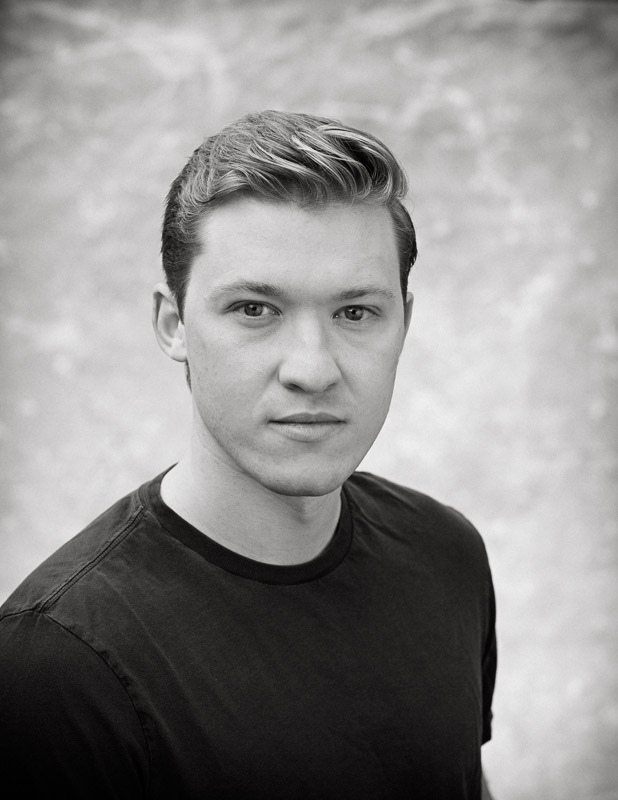
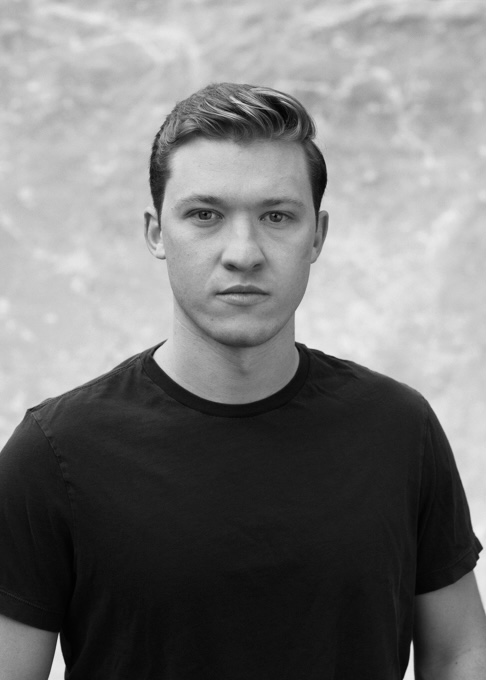
WIP: start redesign

diff --git a/components/Header.tsx b/components/Header.tsx
@@ -1,14 +1,16 @@
-import { useState, useEffect } from "react";
-import { useTheme } from "next-themes";
-import { BsMoonFill, BsSunFill } from "react-icons/bs";
+// import { useState, useEffect } from "react";
+// import { useTheme } from "next-themes";
+// import { BsMoonFill, BsSunFill } from "react-icons/bs";
+
+import Image from "next/image";
 
 function Header() {
-  const [mounted, setMounted] = useState<boolean>(false);
-  const { systemTheme, theme, setTheme } = useTheme();
+  // const [mounted, setMounted] = useState<boolean>(false);
+  // const { systemTheme, theme, setTheme } = useTheme();
 
-  useEffect(() => {
-    setMounted(true);
-  }, []);
+  // useEffect(() => {
+  //   setMounted(true);
+  // }, []);
 
   // const renderThemeChanger = () => {
   //   if (!mounted) return null;
@@ -31,35 +33,27 @@ function Header() {
   //   }
   // };
 
-  const openResume = () => {
-    window.open("/CharlieCarrResumeJan2023.pdf");
-  };
+  // const openResume = () => {
+  //   window.open("/CharlieCarrResumeJan2023.pdf");
+  // };
 
   return (
-    <header className="flex h-header-actual w-full justify-between items-center px-4 sm:px-12 border-b-gray-200 border-t-0 border-x-0 border-4 bg-neutral-800">
-      {/* right header */}
-      <div className="flex justify-center items-center">
-        <p className="text-xl sm:text-3xl">charlie-carr.com</p>
+    <header className="flex h-1/6 w-full items-center justify-between px-20">
+      <div className="bg-neutral-800 w-16 h-16 flex flex-col justify-center items-center relative">
+        <Image
+          src="/images/headshot.jpg"
+          alt="headshot"
+          fill
+          priority
+          // min-h-[250px]
+          className="rounded-full object-cover overflow-hidden"
+        />
       </div>
 
-      {/* left header */}
-      <div className="flex items-center justify-center">
-        {/* <div className="text-xs">{renderThemeChanger()}</div> */}
-        {/* <button className="border-2 ml-7 border-black dark:border-gray-200 py-1 px-3 text-base sm:text-lg">
-          Resume
-        </button> */}
-
-        <button className="ml-5" onClick={() => openResume()}>
-          <a
-            // href="#_"
-            className="relative inline-flex items-center justify-start px-4 py-2 overflow-hidden font-medium transition-all border-2 border-gray-200 group"
-          >
-            <span className="w-52 h-52 rounded rotate-[-40deg] bg-gray-200 absolute bottom-0 left-0 -translate-x-full ease-out duration-500 transition-all translate-y-full mb-9 ml-9 group-hover:ml-0 group-hover:mb-32 group-hover:translate-x-0"></span>
-            <span className="relative w-full text-left text-gray-200 transition-colors duration-300 ease-in-out group-hover:text-neutral-800">
-              Resume
-            </span>
-          </a>
-        </button>
+      <div className="flex justify-center items-center gap-x-10 text-sm">
+        <p>Projects</p>
+        <p>About</p>
+        <p>Contact</p>
       </div>
     </header>
   );

diff --git a/components/layout.tsx b/components/layout.tsx
@@ -1,18 +1,19 @@
 import Head from "next/head";
 import Link from "next/link";
 import { useState } from "react";
+import Card from "./Card";
 import Header from "./Header";
 import LeftSection from "./LeftSection";
 
 type LayoutProps = {
-  children: React.ReactNode
-}
+  children: React.ReactNode;
+};
 
 const PageLayout = ({ children }: LayoutProps) => {
   const [filterState, setFilterState] = useState<string>("Latest Projects");
 
   return (
-    <div className="h-full lg:h-screen lg:max-h-screen w-screen max-w-screen flex flex-col justify-center items-center bg-neutral-800 text-gray-200 overflow-hidden">
+    <div className="h-full min-h-screen w-screen max-w-screen flex flex-col justify-center items-center bg-neutral-800 text-gray-200">
       <Head>
         <title>Charlie Carr</title>
         <meta name="description" content="Charlie Carr Web Dev Portfolio" />
@@ -20,7 +21,20 @@ const PageLayout = ({ children }: LayoutProps) => {
       </Head>
 
       <Header />
-      <div className="w-full h-full lg:h-header flex flex-col lg:flex-row justify-center items-center lg:justify-start lg:items-start">
+
+      <div className="h-5/6 w-full flex flex-col items-start px-20">
+        <h1 className="mt-20 text-4xl">
+          Full stack software developer, <br /> based in NYC
+        </h1>
+
+        <div className="mt-32 flex gap-4">
+         <Card />
+         <Card />
+         <Card />
+        </div>
+      </div>
+
+      {/* <div className="w-full h-full lg:h-header flex flex-col lg:flex-row justify-center items-center lg:justify-start lg:items-start">
         <LeftSection />
         <main className="w-full lg:w-3/4 h-full flex flex-col p-6 px-px sm:px-6 pt-10 sm:pt-6">
           <div className="flex justify-center items-end w-full h-1/6">
@@ -62,7 +76,7 @@ const PageLayout = ({ children }: LayoutProps) => {
             {children}
           </div>
         </main>
-      </div>
+      </div> */}
     </div>
   );
 };

diff --git a/components/Card.tsx b/components/Card.tsx
@@ -1,0 +1,20 @@
+
+const Card = () => {
+  return (
+    <div className="h-52 w-80 border flex flex-col p-4 text-sm rounded-md gap-y-1 relative">
+      <p className="font-bold">
+        Mainstage{" "}
+        <span className="font-extralight text-xs">
+          | 12.30 PM - 1.25 PM EST
+        </span>
+      </p>
+      <p className="font-bold text-lg">Keynote</p>
+      <p className="font-extralight text-xs">
+        Steve Jobs, Apple | Jeff Bezos, Amazon
+      </p>
+      <p className="font-semibold absolute bottom-5">View in schedule &gt;</p>
+    </div>
+  );
+};
+
+export default Card;
